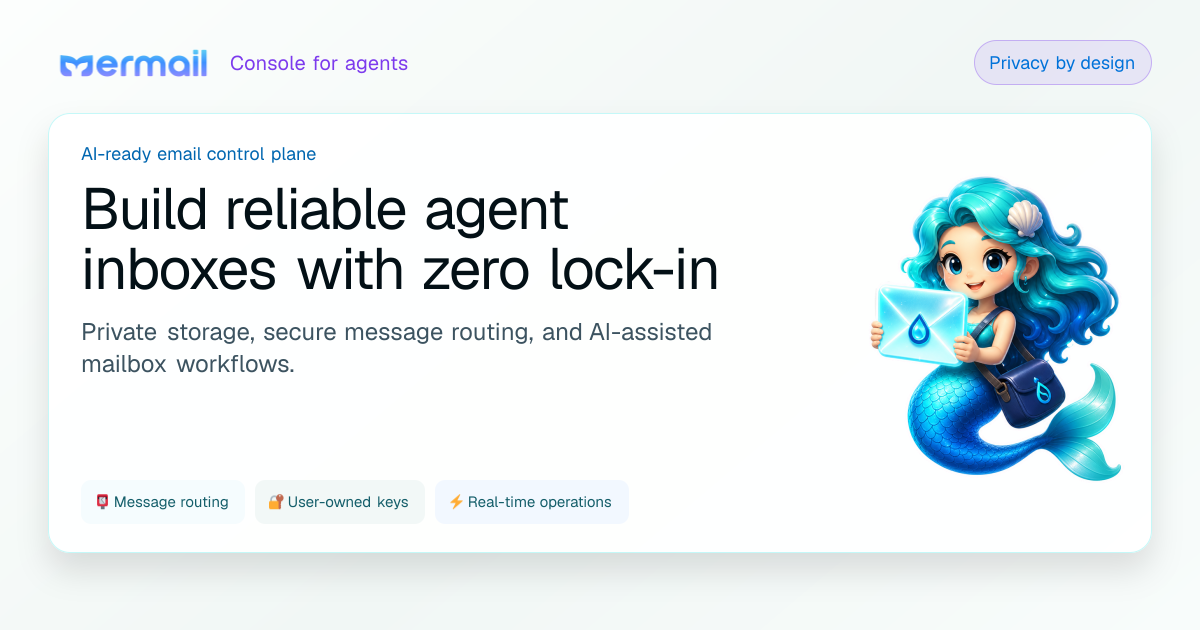
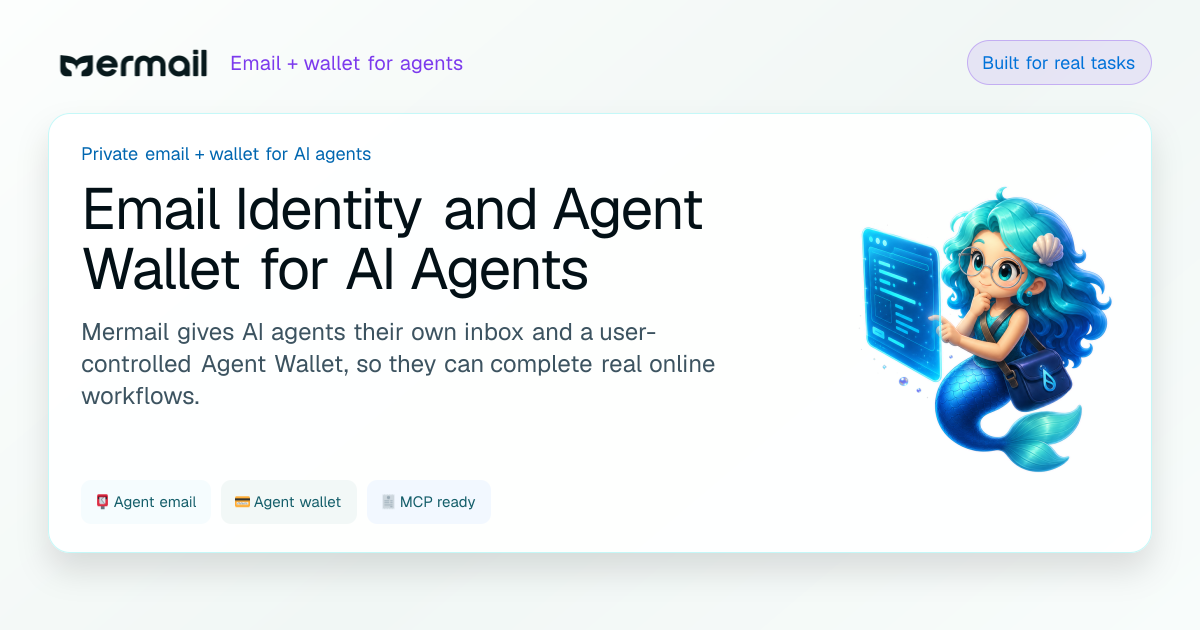
mod: update og image

diff --git a/mermail-pitch-deck.html b/mermail-pitch-deck.html
@@ -3,8 +3,15 @@
   <head>
     <meta charset="UTF-8" />
     <meta name="viewport" content="width=device-width, initial-scale=1.0" />
+    <title>Mermail — Email Identity and Agent Wallet for AI Agents</title>
+    <meta
+      name="description"
+      content="Mermail gives AI agents their own inbox and a user-controlled Agent Wallet, so they can complete real online workflows."
+    />
+    <meta name="robots" content="index, follow, max-image-preview:large" />
+    <link rel="canonical" href="https://pitching.mermail.app/" />
 
-    <!-- OpenGraph / Facebook Metadata -->
+    <!-- Open Graph metadata -->
     <meta property="og:type" content="website" />
     <meta property="og:url" content="https://pitching.mermail.app/" />
     <meta
@@ -19,14 +26,23 @@
       property="og:image"
       content="https://pitching.mermail.app/assets/og-image.png"
     />
+    <meta
+      property="og:image:secure_url"
+      content="https://pitching.mermail.app/assets/og-image.png"
+    />
     <meta property="og:image:type" content="image/png" />
-    <meta property="og:image:width" content="1024" />
-    <meta property="og:image:height" content="1024" />
+    <meta property="og:image:width" content="1200" />
+    <meta property="og:image:height" content="630" />
+    <meta
+      property="og:image:alt"
+      content="Mermail: Email Identity and Agent Wallet for AI Agents"
+    />
     <meta property="og:site_name" content="Mermail" />
+    <meta property="og:locale" content="en_US" />
 
-    <!-- Twitter Card Metadata -->
+    <!-- X (Twitter) card metadata -->
     <meta name="twitter:card" content="summary_large_image" />
-    <meta name="twitter:url" content="https://pitching.mermail.app/" />
+    <meta name="twitter:site" content="@mermail_app" />
     <meta
       name="twitter:title"
       content="Mermail — Email Identity and Agent Wallet for AI Agents"
@@ -39,8 +55,11 @@
       name="twitter:image"
       content="https://pitching.mermail.app/assets/og-image.png"
     />
+    <meta
+      name="twitter:image:alt"
+      content="Mermail: Email Identity and Agent Wallet for AI Agents"
+    />
 
-    <title>Mermail — Email Identity and Agent Wallet for AI Agents</title>
     <link
       rel="icon"
       type="image/x-icon"
